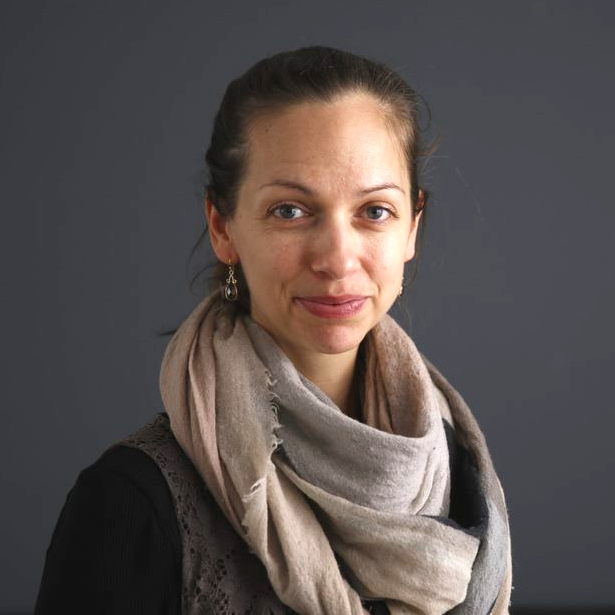
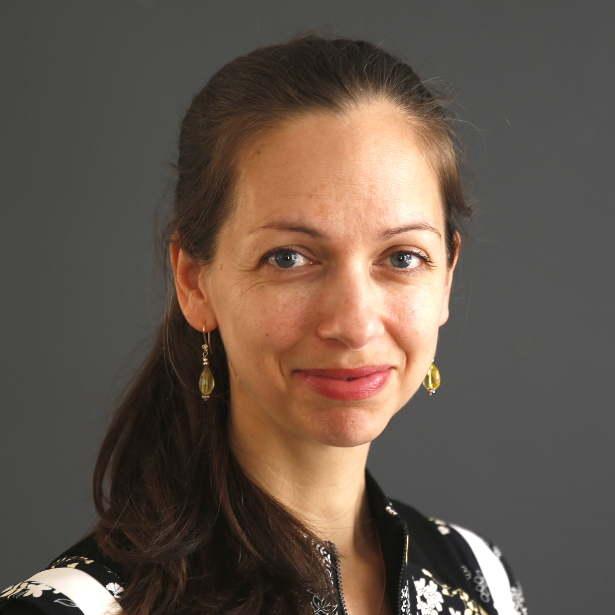
close #96 implement new picture of marie

diff --git a/_pages/registration.html b/_pages/registration.html
@@ -45,7 +45,7 @@ bg-image: ../img/graphic/handshake.jpg
     </div>
 
     <div class="col-md-6 col_forms">
-        <form action="https://formspree.io/prolike@copenhagencoaching.dk" method="POST">
+        <form action="https://formspree.io/info@copenhagencoaching.dk" method="POST">
 
         <input class="input-form" type="text" placeholder="Uddannelse" name="uddannelse" >
 
